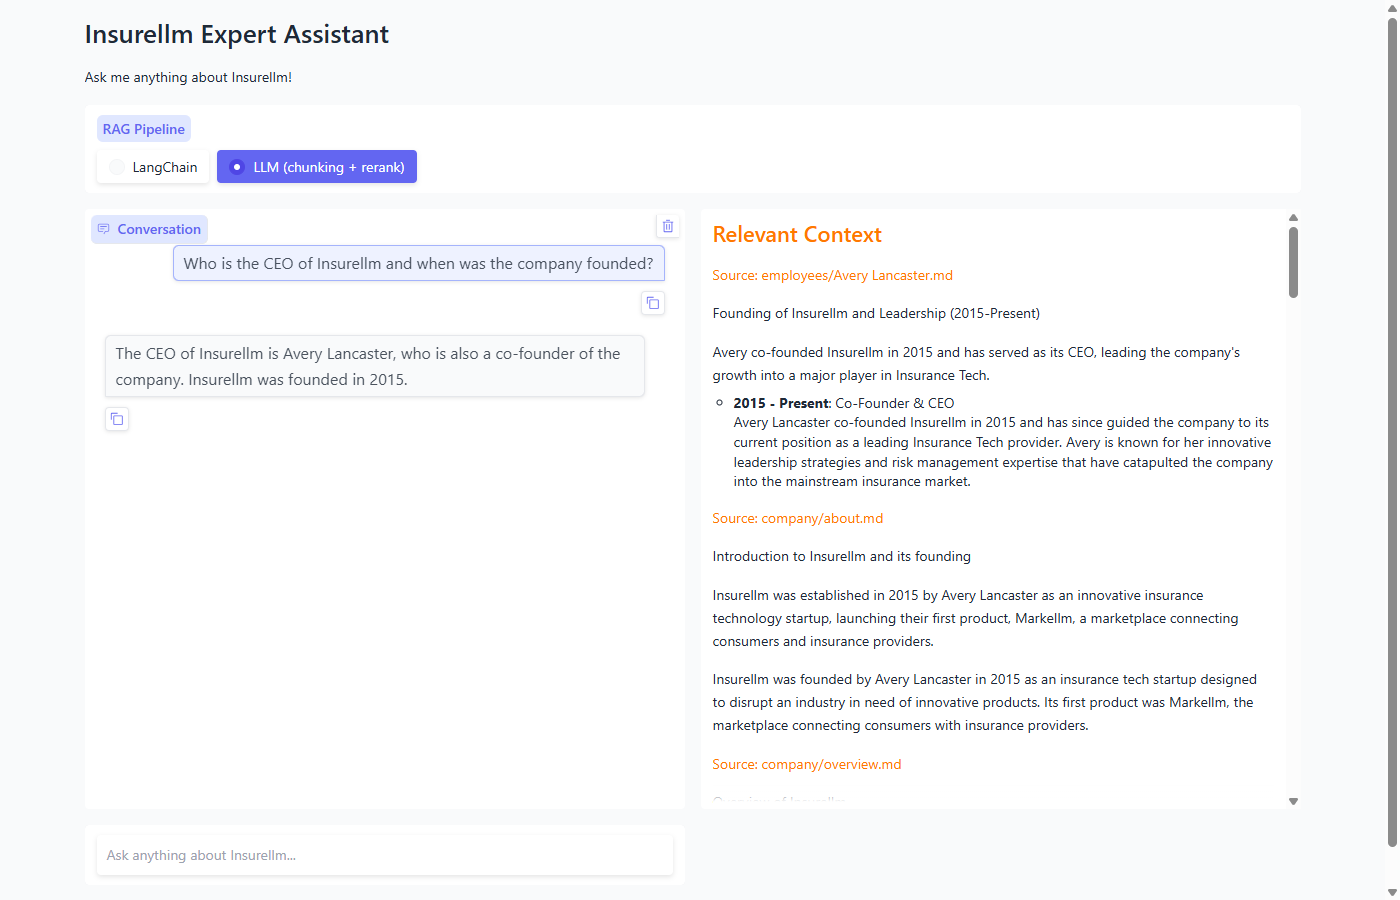
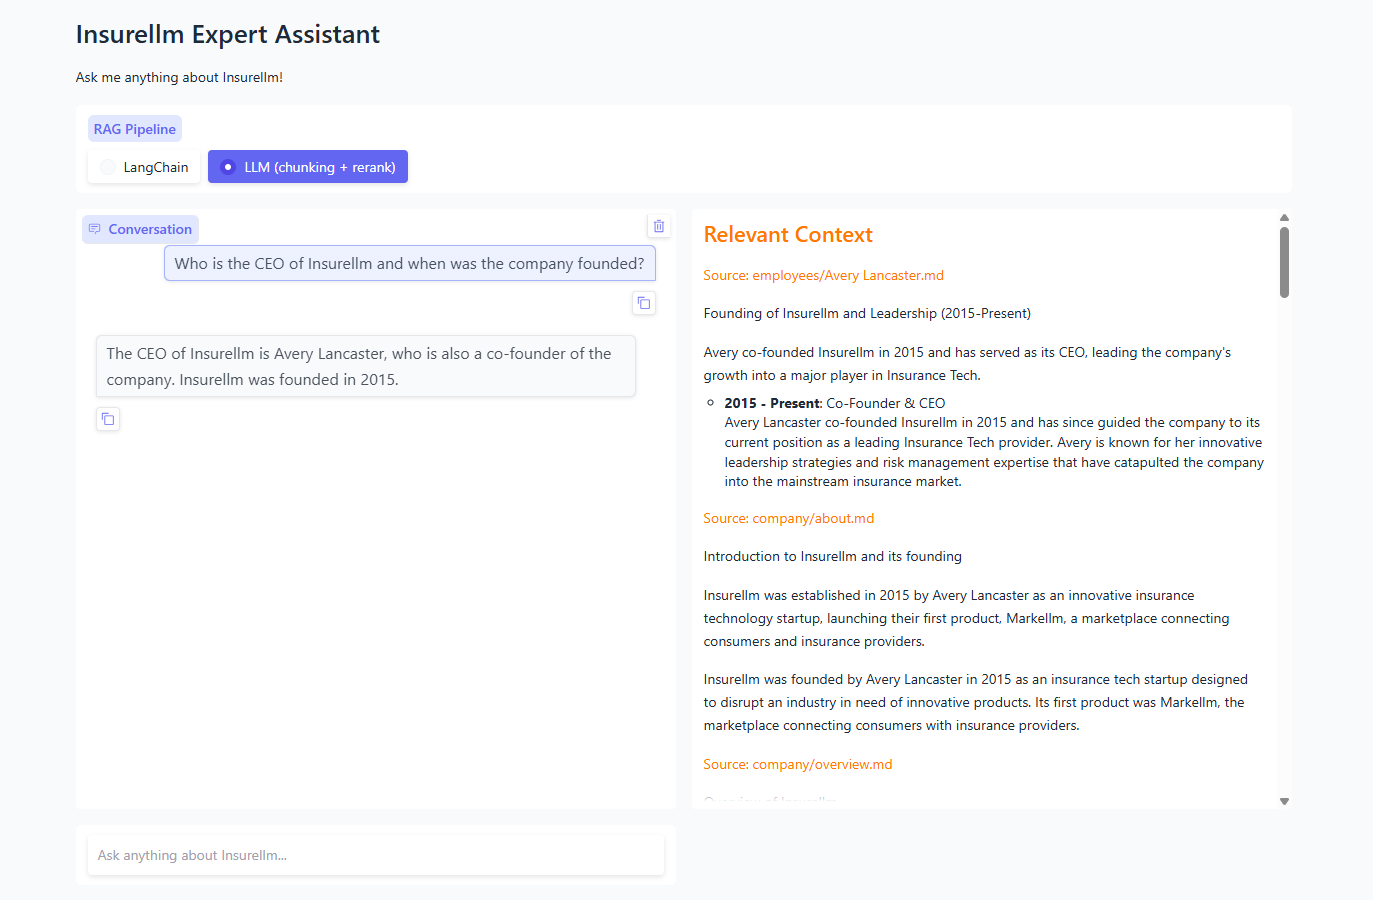
refactor: centralize knowledge base paths in config
- move KNOWLEDGE_BASE_PATH/DOCUMENT_GLOB to config, drop hardcoded
  knowledge-base strings in ingest and app
- add PIPELINE_CHOICES shared by app and eval dashboard
- refresh app screenshot

diff --git a/app.py b/app.py
@@ -3,19 +3,20 @@ from pathlib import PurePath
 import gradio as gr
 from dotenv import load_dotenv
 
-from pipelines import DEFAULT_PIPELINE, PIPELINE_LABELS, get_pipeline
+from config import KNOWLEDGE_BASE_DIR_NAME
+from pipelines import DEFAULT_PIPELINE, PIPELINE_CHOICES, get_pipeline
 
 load_dotenv(override=True)
 
 
 def display_source(source: str) -> str:
     """
-    Show the source path relative to knowledge-base/, hiding the local directory it was ingested from.
+    Show the source path relative to the knowledge base folder, hiding the local directory it was ingested from.
     """
     parts = PurePath(source).parts
-    if "knowledge-base" not in parts:
+    if KNOWLEDGE_BASE_DIR_NAME not in parts:
         return source
-    return "/".join(parts[parts.index("knowledge-base") + 1:])
+    return "/".join(parts[parts.index(KNOWLEDGE_BASE_DIR_NAME) + 1:])
 
 
 def format_context(context_chunks):
@@ -53,7 +54,7 @@ def main():
     with gr.Blocks(title="Insurellm Expert Assistant") as ui:
         gr.Markdown("# Insurellm Expert Assistant\nAsk me anything about Insurellm!")
         pipeline_selector = gr.Radio(
-            choices=[(label, name) for name, label in PIPELINE_LABELS.items()],
+            choices=PIPELINE_CHOICES,
             value=DEFAULT_PIPELINE,
             label="RAG Pipeline",
         )

diff --git a/ingest_llm.py b/ingest_llm.py
@@ -1,5 +1,4 @@
 from concurrent.futures import ThreadPoolExecutor
-from pathlib import Path
 from chromadb import PersistentClient
 from dotenv import load_dotenv
 from litellm import completion
@@ -8,13 +7,12 @@ from pydantic import BaseModel, Field
 from tenacity import retry, wait_exponential
 from tqdm import tqdm
 
-from config import LLM_COLLECTION_NAME, LLM_DB_PATH, EMBEDDING_MODEL
+from config import DOCUMENT_GLOB, EMBEDDING_MODEL, KNOWLEDGE_BASE_PATH, LLM_COLLECTION_NAME, LLM_DB_PATH
 
 
 load_dotenv(override=True)
 
 MODEL = "openai/gpt-4.1-nano"
-KNOWLEDGE_BASE_PATH = Path(__file__).parent / "knowledge-base"
 AVERAGE_CHUNK_SIZE = 100
 EMBEDDING_BATCH_SIZE = 500
 # If you hit rate limits, set MAX_WORKERS to 1
@@ -57,7 +55,7 @@ def load_documents() -> list[dict]:
     for folder in KNOWLEDGE_BASE_PATH.iterdir():
         if not folder.is_dir():
             continue
-        for file in folder.rglob("*.md"):
+        for file in folder.glob(DOCUMENT_GLOB):
             documents.append(
                 {"type": folder.name, "source": file.as_posix(), "text": file.read_text(encoding="utf-8")}
             )

diff --git a/ingest_langchain.py b/ingest_langchain.py
@@ -1,16 +1,20 @@
-from pathlib import Path
 from dotenv import load_dotenv
 from langchain_community.document_loaders import DirectoryLoader, TextLoader
 from langchain_text_splitters import RecursiveCharacterTextSplitter
 from langchain_chroma import Chroma
 from langchain_openai import OpenAIEmbeddings
 
-from config import LANGCHAIN_COLLECTION_NAME, LANGCHAIN_DB_PATH, EMBEDDING_MODEL
+from config import (
+    DOCUMENT_GLOB,
+    EMBEDDING_MODEL,
+    KNOWLEDGE_BASE_PATH,
+    LANGCHAIN_COLLECTION_NAME,
+    LANGCHAIN_DB_PATH,
+)
 
 
 load_dotenv(override=True)
 
-KNOWLEDGE_BASE_PATH = Path(__file__).parent / "knowledge-base"
 CHUNK_SIZE = 500
 CHUNK_OVERLAP = 200
 
@@ -23,7 +27,7 @@ def load_documents():
         if not folder.is_dir():
             continue
         loader = DirectoryLoader(
-            str(folder), glob="**/*.md", loader_cls=TextLoader, loader_kwargs={"encoding": "utf-8"}
+            str(folder), glob=DOCUMENT_GLOB, loader_cls=TextLoader, loader_kwargs={"encoding": "utf-8"}
         )
         for document in loader.load():
             document.metadata["type"] = folder.name

diff --git a/config.py b/config.py
@@ -1,15 +1,22 @@
 from pathlib import Path
 
 
+ROOT_DIR = Path(__file__).parent
+
+# Source documents: each subfolder name becomes the chunk `type` metadata
+KNOWLEDGE_BASE_DIR_NAME = "knowledge-base"
+KNOWLEDGE_BASE_PATH = ROOT_DIR / KNOWLEDGE_BASE_DIR_NAME
+DOCUMENT_GLOB = "**/*.md"
+
 # Shared by both pipelines and the evaluation
 EMBEDDING_MODEL = "text-embedding-3-large"
 FINAL_K = 10
 
 # LLM pipeline
-LLM_DB_PATH = str(Path(__file__).parent / "llm_db")
+LLM_DB_PATH = str(ROOT_DIR / "llm_db")
 LLM_COLLECTION_NAME = "llm"
 LLM_RETRIEVAL_K = 20
 
 # LangChain pipeline keeps its own store so both pipelines can be served side by side
-LANGCHAIN_DB_PATH = str(Path(__file__).parent / "langchain_db")
+LANGCHAIN_DB_PATH = str(ROOT_DIR / "langchain_db")
 LANGCHAIN_COLLECTION_NAME = "langchain"

diff --git a/eval_dashboard.py b/eval_dashboard.py
@@ -5,7 +5,7 @@ from enum import Enum
 from dotenv import load_dotenv
 
 from evaluation.evaluate import evaluate_retrieval_all, evaluate_answer_all
-from pipelines import DEFAULT_PIPELINE, PIPELINE_LABELS
+from pipelines import DEFAULT_PIPELINE, PIPELINE_CHOICES
 
 load_dotenv(override=True)
 
@@ -149,7 +149,7 @@ def main():
         gr.Markdown("# RAG Evaluation Dashboard")
         gr.Markdown("Evaluate retrieval and answer quality for the Insurellm RAG system")
         pipeline_selector = gr.Radio(
-            choices=[(label, name) for name, label in PIPELINE_LABELS.items()],
+            choices=PIPELINE_CHOICES,
             value=DEFAULT_PIPELINE,
             label="RAG Pipeline",
         )

diff --git a/pipelines.py b/pipelines.py
@@ -12,6 +12,8 @@ PIPELINE_LABELS = {
     "llm": "LLM (chunking + rerank)",
 }
 DEFAULT_PIPELINE = "llm"
+# (label, value) pairs for the UI pipeline selector
+PIPELINE_CHOICES = [(label, name) for name, label in PIPELINE_LABELS.items()]
 
 
 def get_pipeline(pipeline_name: str = DEFAULT_PIPELINE) -> ModuleType:

diff --git a/CLAUDE.md b/CLAUDE.md
@@ -27,7 +27,7 @@ The entry points are defined in `[project.scripts]` in `pyproject.toml`. There i
 
 Top-level modules are imported flat (`from config import ...`, `from pipelines import ...`). Hatch packages the repo root as `.`, so run everything through `uv run` from the repo root. Two pipelines live side by side. `pipelines.py` maps a name (`langchain`, `llm`) to a module and imports it lazily via `get_pipeline(pipeline_name)`; `app.py`, `eval_dashboard.py` (a `gr.Radio` switch) and `evaluation/evaluate.py` (`--pipeline`) go through it, never importing a pipeline module directly. Both modules expose `answer_question(question, history)` and `fetch_context(question, history)`; keep those signatures identical. The LangChain pipeline (`answer_langchain.py`, `ingest_langchain.py`) has its own store (`LANGCHAIN_DB_PATH`=`langchain_db/`, `LANGCHAIN_COLLECTION_NAME`) and retrieves `FINAL_K` chunks. The LLM pipeline has no LangChain: storage uses `chromadb.PersistentClient` directly, embeddings use the `openai` SDK, and all chat/structured-output calls go through **litellm** `completion()` (`MODEL` values are LiteLLM names such as `openai/gpt-4.1-nano`).
 
-- **`config.py`**: settings that ingestion and retrieval must agree on. Shared: `EMBEDDING_MODEL` and `FINAL_K` (chunks returned by either pipeline, 10). LLM pipeline: `LLM_DB_PATH` (`llm_db/`), `LLM_COLLECTION_NAME`, `LLM_RETRIEVAL_K` (candidates per query, 20). LangChain pipeline: `LANGCHAIN_DB_PATH`, `LANGCHAIN_COLLECTION_NAME`. If you change `EMBEDDING_MODEL`, re-ingest both; if you change the `ingest_llm.py` `MODEL`, re-ingest the LLM store.
+- **`config.py`**: settings that ingestion and retrieval must agree on. Paths: `ROOT_DIR`, `KNOWLEDGE_BASE_DIR_NAME`/`KNOWLEDGE_BASE_PATH`, `DOCUMENT_GLOB`; never hardcode them elsewhere. Shared: `EMBEDDING_MODEL` and `FINAL_K` (chunks returned by either pipeline, 10). LLM pipeline: `LLM_DB_PATH` (`llm_db/`), `LLM_COLLECTION_NAME`, `LLM_RETRIEVAL_K` (candidates per query, 20). LangChain pipeline: `LANGCHAIN_DB_PATH`, `LANGCHAIN_COLLECTION_NAME`. If you change `EMBEDDING_MODEL`, re-ingest both; if you change the `ingest_llm.py` `MODEL`, re-ingest the LLM store.
 - **`ingest_llm.py`**: LLM chunking. For each `knowledge-base/<folder>/**/*.md` file, the LLM returns `GeneratedChunks` (structured output). Each chunk has a `headline`, `summary` and `original_text`, and all three are concatenated into the `page_content` that gets embedded. It asks for roughly `len(text) // AVERAGE_CHUNK_SIZE + 1` chunks. Documents are processed in parallel (`MAX_WORKERS`, set to 1 on rate limits), with `tenacity` retries. Metadata is `{source, type}`, where `type` is the folder name. Each run deletes and rebuilds the collection.
 - **`answer_llm.py`**: the LLM RAG pipeline. It opens Chroma and raises `RuntimeError` if the collection is empty, **at import time**. Same for `answer_langchain` with `langchain_db/`. Because of lazy loading, only the selected pipeline needs its store. `fetch_context(question, history)` does the following:
   1. `rewrite_query` uses the LLM and the history to produce a short query.
